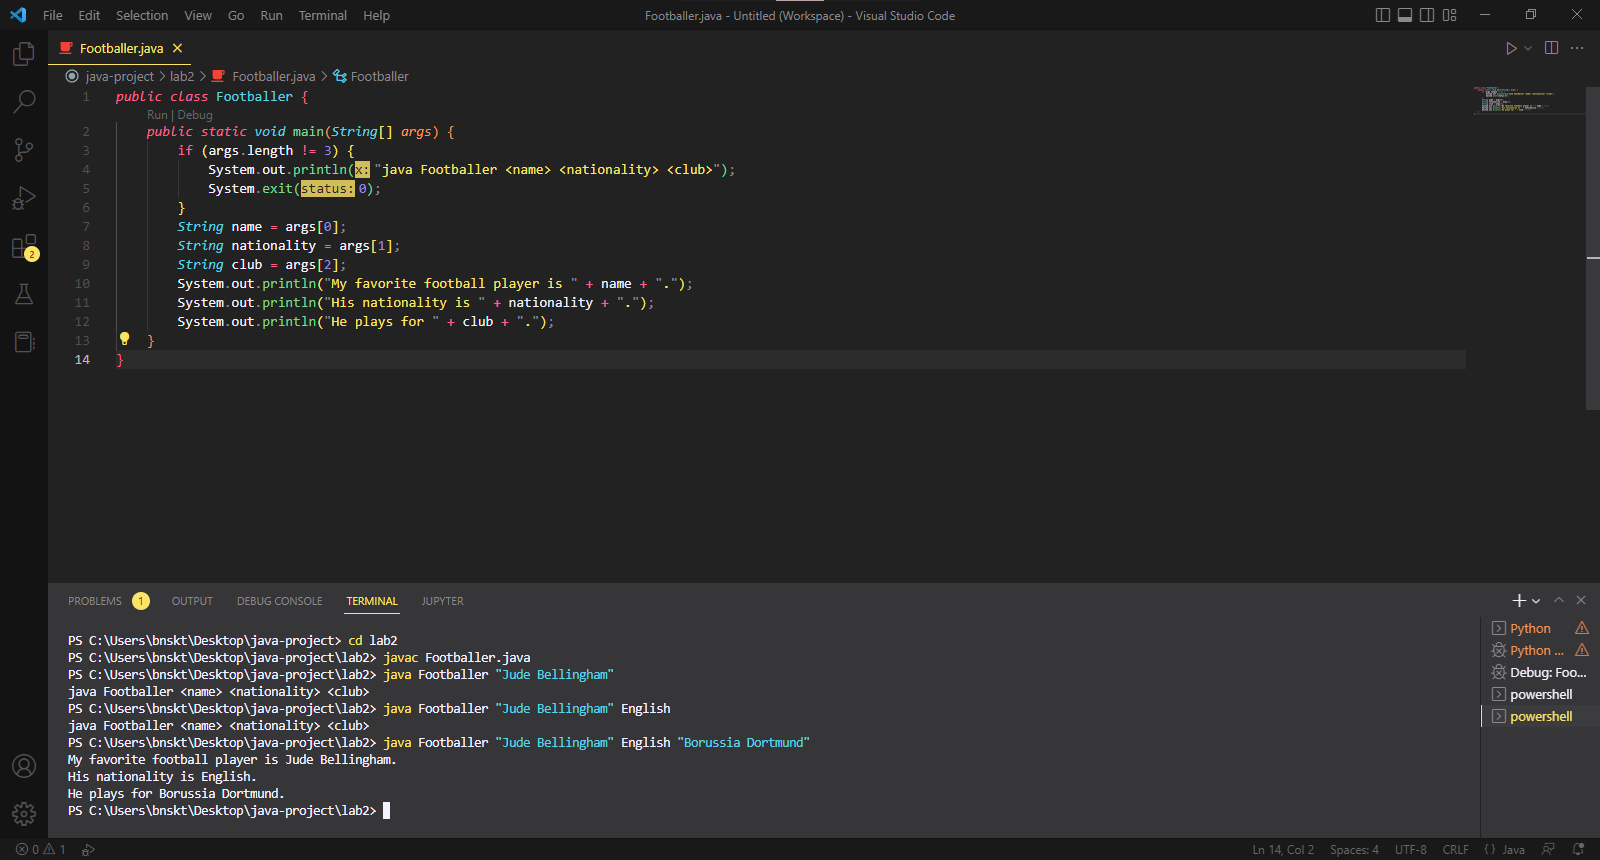
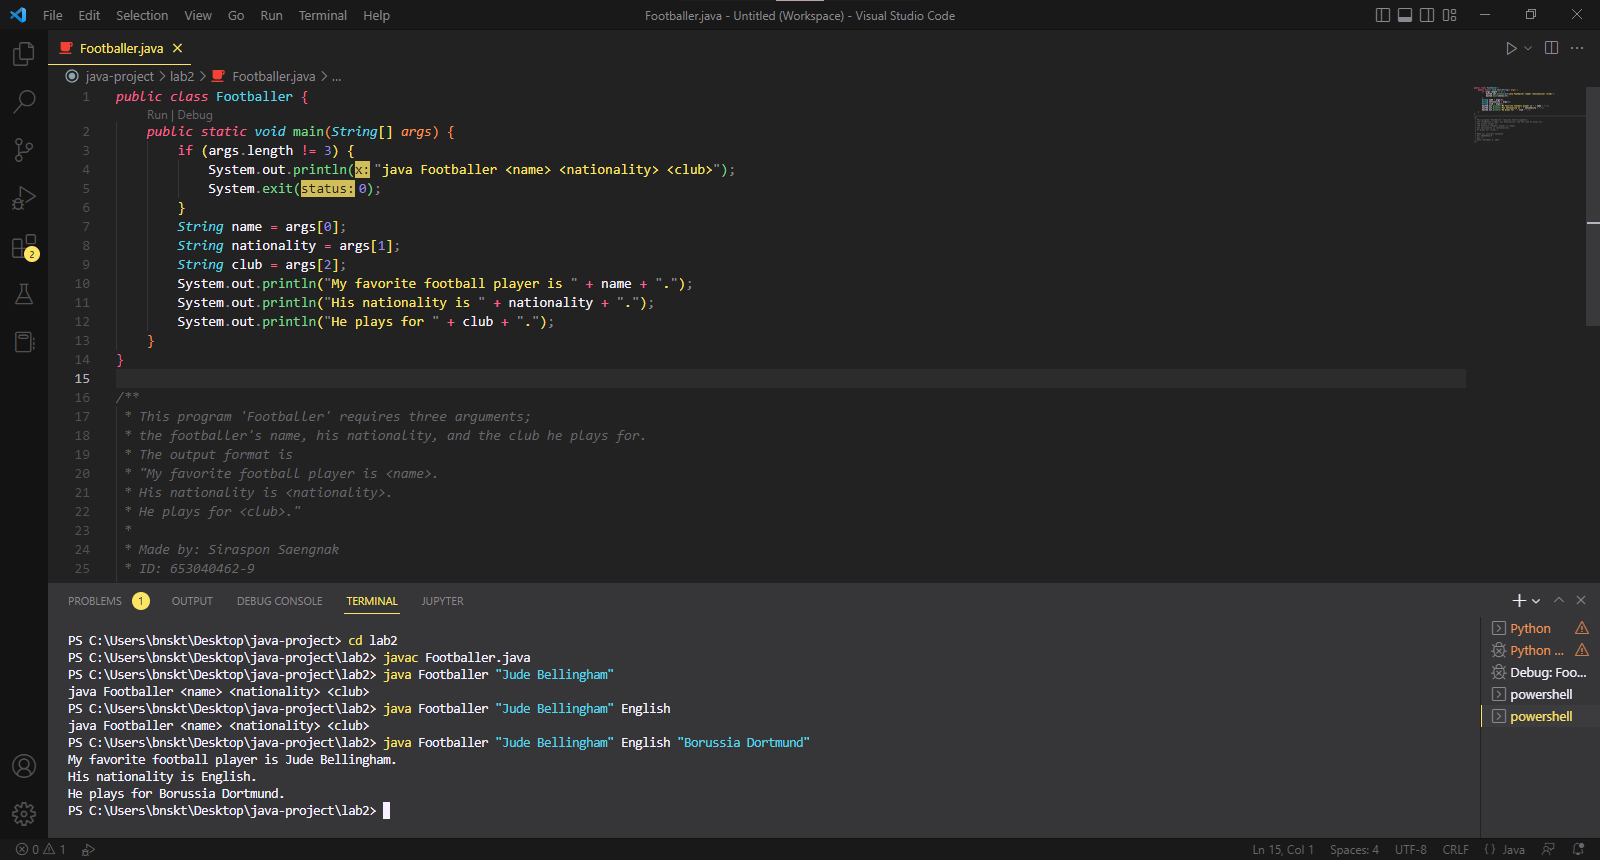
Add files via upload

Changed region(s): [[0.0938, 0.4837, 0.375, 0.6047], [0.0938, 0.6349, 0.2188, 0.6651], [0.2188, 0.0605, 0.25, 0.0907]]

diff --git a/lab2/Footballer.java b/lab2/Footballer.java
@@ -12,3 +12,17 @@ public class Footballer {
         System.out.println("He plays for " + club + ".");
     }
 }
+
+/**
+ * This program 'Footballer' requires three arguments; 
+ * the footballer's name, his nationality, and the club he plays for.
+ * The output format is
+ * "My favorite football player is <name>.
+ * His nationality is <nationality>.
+ * He plays for <club>."
+ * 
+ * Made by: Siraspon Saengnak
+ * ID: 653040462-9
+ * Sec: 2
+ * Date: December 9, 2022
+**/
